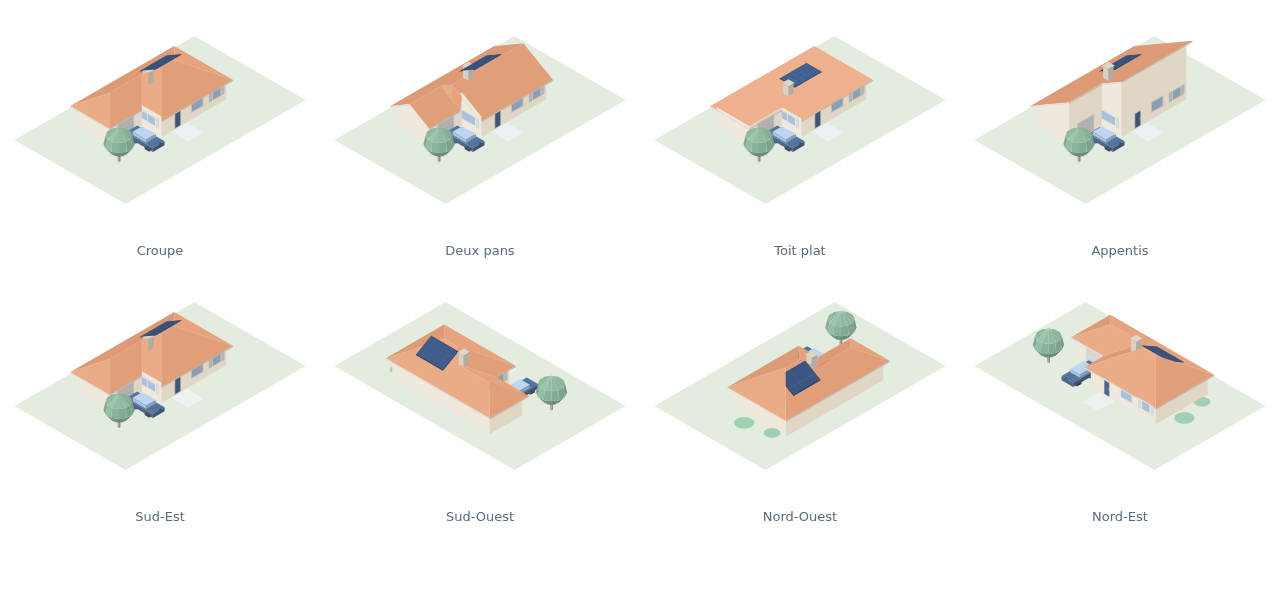
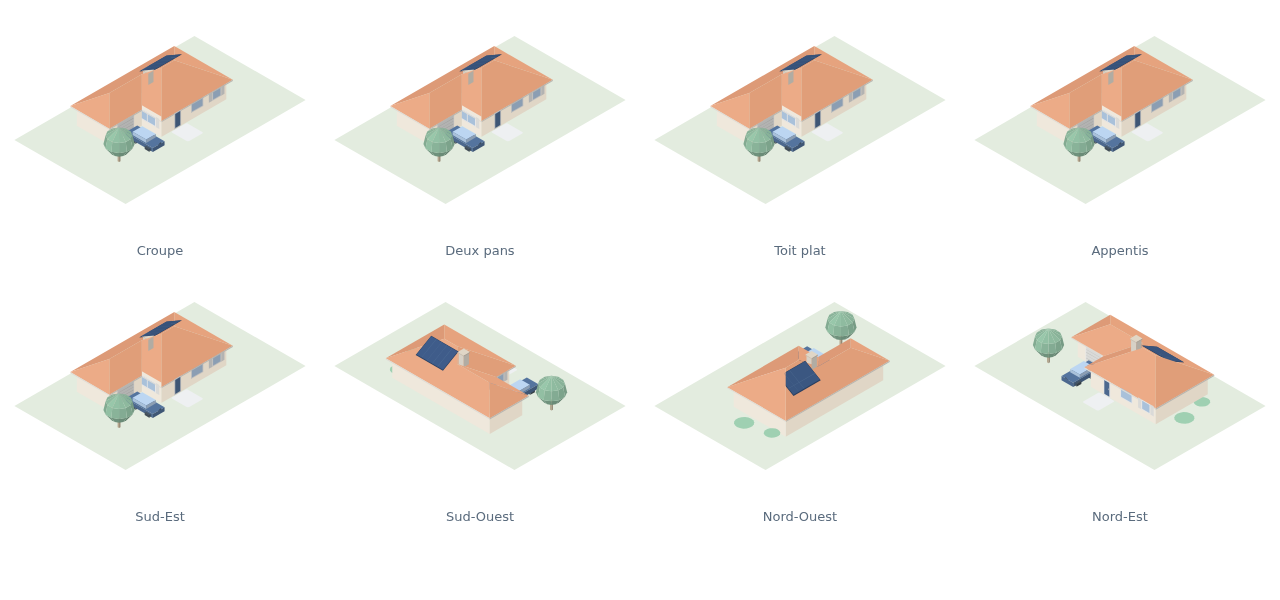
Adoucit et agrandit les tuiles canal panachées
Retour de Guilhem : couleurs trop vives, tuiles à allonger et à grossir.

Les tuiles passent de 0,31 × 0,21 m à 0,58 × 0,30 m. Le rapport monte de 1,48 à
1,93, ce qui les allonge nettement, et une toiture en porte désormais près de
trois fois moins — assez pour que le panachage se lise sans se dissoudre en
mouchetis.

Le mélange est resserré : les écarts de teinte tombent de 16° à 9° au plus, les
écarts de clarté et de saturation sont réduits d'autant, et aucune nuance n'est
plus saturée que la base. La nuance dominante reste en revanche exactement la
couleur choisie, de sorte que la toiture continue de répondre au sélecteur de
couleur au lieu de dériver vers une teinte à elle.

Deux tests inscrivent ces intentions : l'allongement et la densité des tuiles
d'une part, la discrétion du camaïeu d'autre part — celui-ci vérifiant qu'aucune
nuance ne dépasse la saturation de la base, ce qui est précisément le défaut
signalé.

94 tests.

diff --git a/src/render/texture.js b/src/render/texture.js
@@ -19,11 +19,12 @@ export const ROOF_TEXTURES = {
     // as a camaïeu rather than a flat plane. Drawn as filled tiles, unlike the
     // line-only materials — the colour variation IS the material here.
     label: 'Tuiles canal panachées',
-    course: 0.21,
-    contrast: 0.26,
-    // Wider than tall: a canal tile reads as a short strip within a fine
-    // course, not as a square. Square tiles turn the roof into brickwork.
-    tile: { along: 0.31, across: 0.21, inset: 0.011 },
+    course: 0.3,
+    contrast: 0.22,
+    // Long and fairly large: a canal tile reads as an elongated strip, and at
+    // this size a roof carries roughly a third as many as it did — enough for
+    // the camaïeu to show without dissolving into speckle.
+    tile: { along: 0.58, across: 0.3, inset: 0.016 },
   },
   slate: { label: 'Ardoises', course: 0.3, joint: 0.34, stagger: true },
   seam: { label: 'Bac acier', seam: 0.55 },
@@ -36,13 +37,13 @@ export const ROOF_TEXTURES = {
  * the proportions.
  */
 const CANAL_MIX = [
-  [9, 0, 1.00, 1.00],   // terre cuite, the ground note
-  [4, -3, 1.06, 0.945], // rouge profond
-  [3, 11, 0.84, 1.075], // paille
-  [2, -7, 0.78, 1.055], // rosé
-  [2, 5, 0.95, 1.03],   // ocre
-  [1, 16, 0.80, 1.11],  // paille claire
-  [1, -4, 1.10, 0.90],  // tuile vieillie
+  [11, 0, 1.00, 1.00],  // terre cuite, the ground note — kept true to the
+  [4, -2, 1.02, 0.965], // rouge profond    chosen roof colour, so only the
+  [3, 7, 0.80, 1.045],  // paille           variants are muted and the roof
+  [2, -4, 0.80, 1.03],  // rosé             still reads as the colour picked
+  [2, 3, 0.92, 1.02],   // ocre
+  [1, 9, 0.74, 1.065],  // paille claire
+  [1, -2, 1.05, 0.945], // tuile vieillie
 ];
 
 /**
@@ -58,9 +59,9 @@ export function tilePalette(fill, spread = 1) {
   for (const [weight, dh, ms, ml] of CANAL_MIX) {
     for (let i = 0; i < weight; i++) {
       const t = weight > 1 ? (i / (weight - 1) - 0.5) * 2 : 0;
-      const h = h0 + (dh + t * 2.5) * spread;
-      const sat = Math.max(0, Math.min(1, s0 * (ms + t * 0.04 * spread)));
-      const lum = Math.max(0, Math.min(1, l0 * (ml + t * 0.022 * spread)));
+      const h = h0 + (dh + t * 1.8) * spread;
+      const sat = Math.max(0, Math.min(1, s0 * (ms + t * 0.03 * spread)));
+      const lum = Math.max(0, Math.min(1, l0 * (ml + t * 0.014 * spread)));
       out.push(rgbToHex(...hslToRgb(h, sat, lum)));
     }
   }

diff --git a/tests/run.js b/tests/run.js
@@ -463,21 +463,31 @@ check('le panachage est déterministe', () => {
     === strip(renderScene(m, { width: 500, height: 380 }).svg) || 'deux rendus divergent';
 });
 
-check('le camaïeu reste dans la famille de la teinte du toit', () => {
-  // Shades must vary, but a tile straying far in hue would read as a defect
-  // rather than as a fired-clay variation.
+check('le camaïeu reste discret et proche de la teinte du toit', () => {
+  // Shades must vary, but a tile straying far would read as a defect rather
+  // than as a fired-clay variation. The bounds are deliberately tight: the
+  // first version of this material was judged too vivid.
   const fill = '#d98d64';
-  const [h0, , l0] = rgbToHsl(...hexToRgb(fill));
+  const [h0, s0, l0] = rgbToHsl(...hexToRgb(fill));
   const shades = tilePalette(fill);
   if (shades.length < 12) return `${shades.length} nuances`;
   if (new Set(shades).size < 12) return 'nuances dupliquées';
   for (const c of shades) {
-    const [h, , l] = rgbToHsl(...hexToRgb(c));
+    const [h, sat, l] = rgbToHsl(...hexToRgb(c));
     let dh = Math.abs(h - h0); if (dh > 180) dh = 360 - dh;
-    if (dh > 25) return `teinte à ${dh.toFixed(0)}° de la base : ${c}`;
-    if (Math.abs(l - l0) > 0.14) return `clarté trop écartée : ${c}`;
+    if (dh > 12) return `teinte à ${dh.toFixed(0)}° de la base : ${c}`;
+    if (Math.abs(l - l0) > 0.085) return `clarté trop écartée : ${c}`;
+    if (sat > s0 * 1.1) return `nuance plus vive que la base : ${c}`;
   }
   return true;
+});
+
+check('les tuiles canal sont allongées et assez grandes', () => {
+  const t = ROOF_TEXTURES.canal.tile;
+  if (t.along / t.across < 1.7) return `rapport ${(t.along / t.across).toFixed(2)} : pas assez allongée`;
+  // Fewer, larger tiles: a roof should not dissolve into speckle.
+  const perM2 = 1 / (t.along * t.across);
+  return perM2 < 7 || `${perM2.toFixed(1)} tuiles au m², trop nombreuses`;
 });
 
 check('les tuiles disparaissent quand elles deviennent illisibles', () => {
